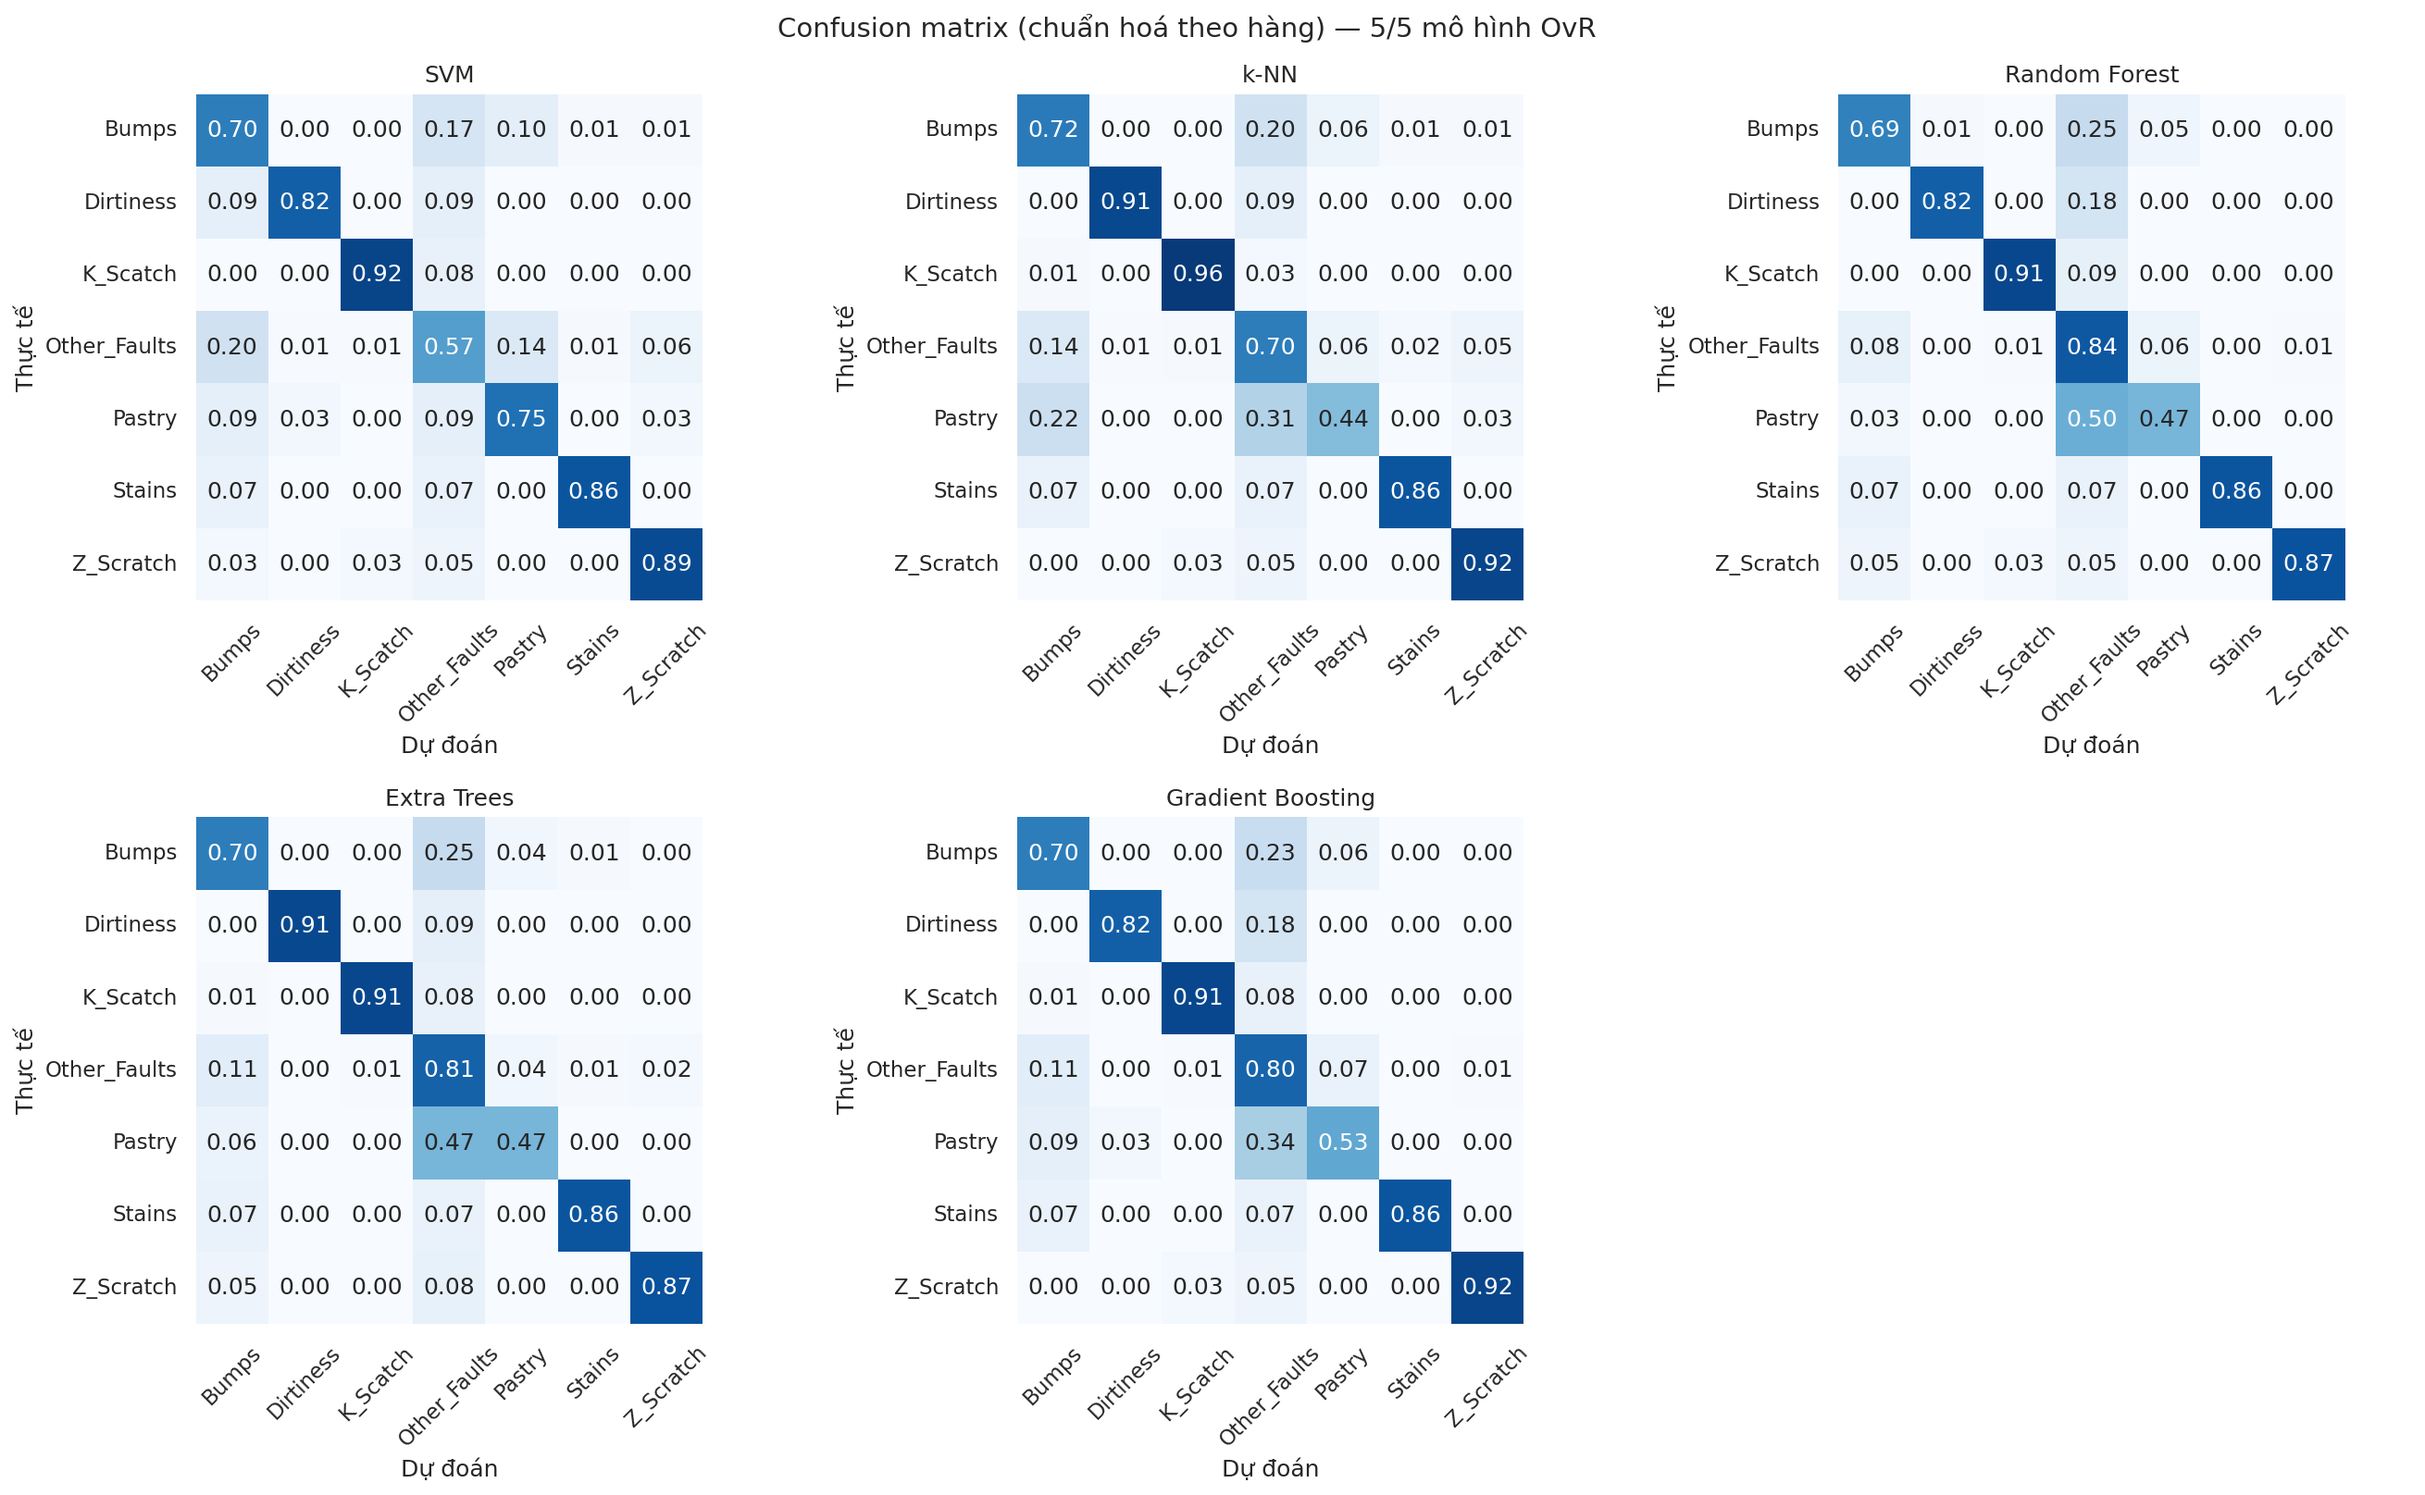
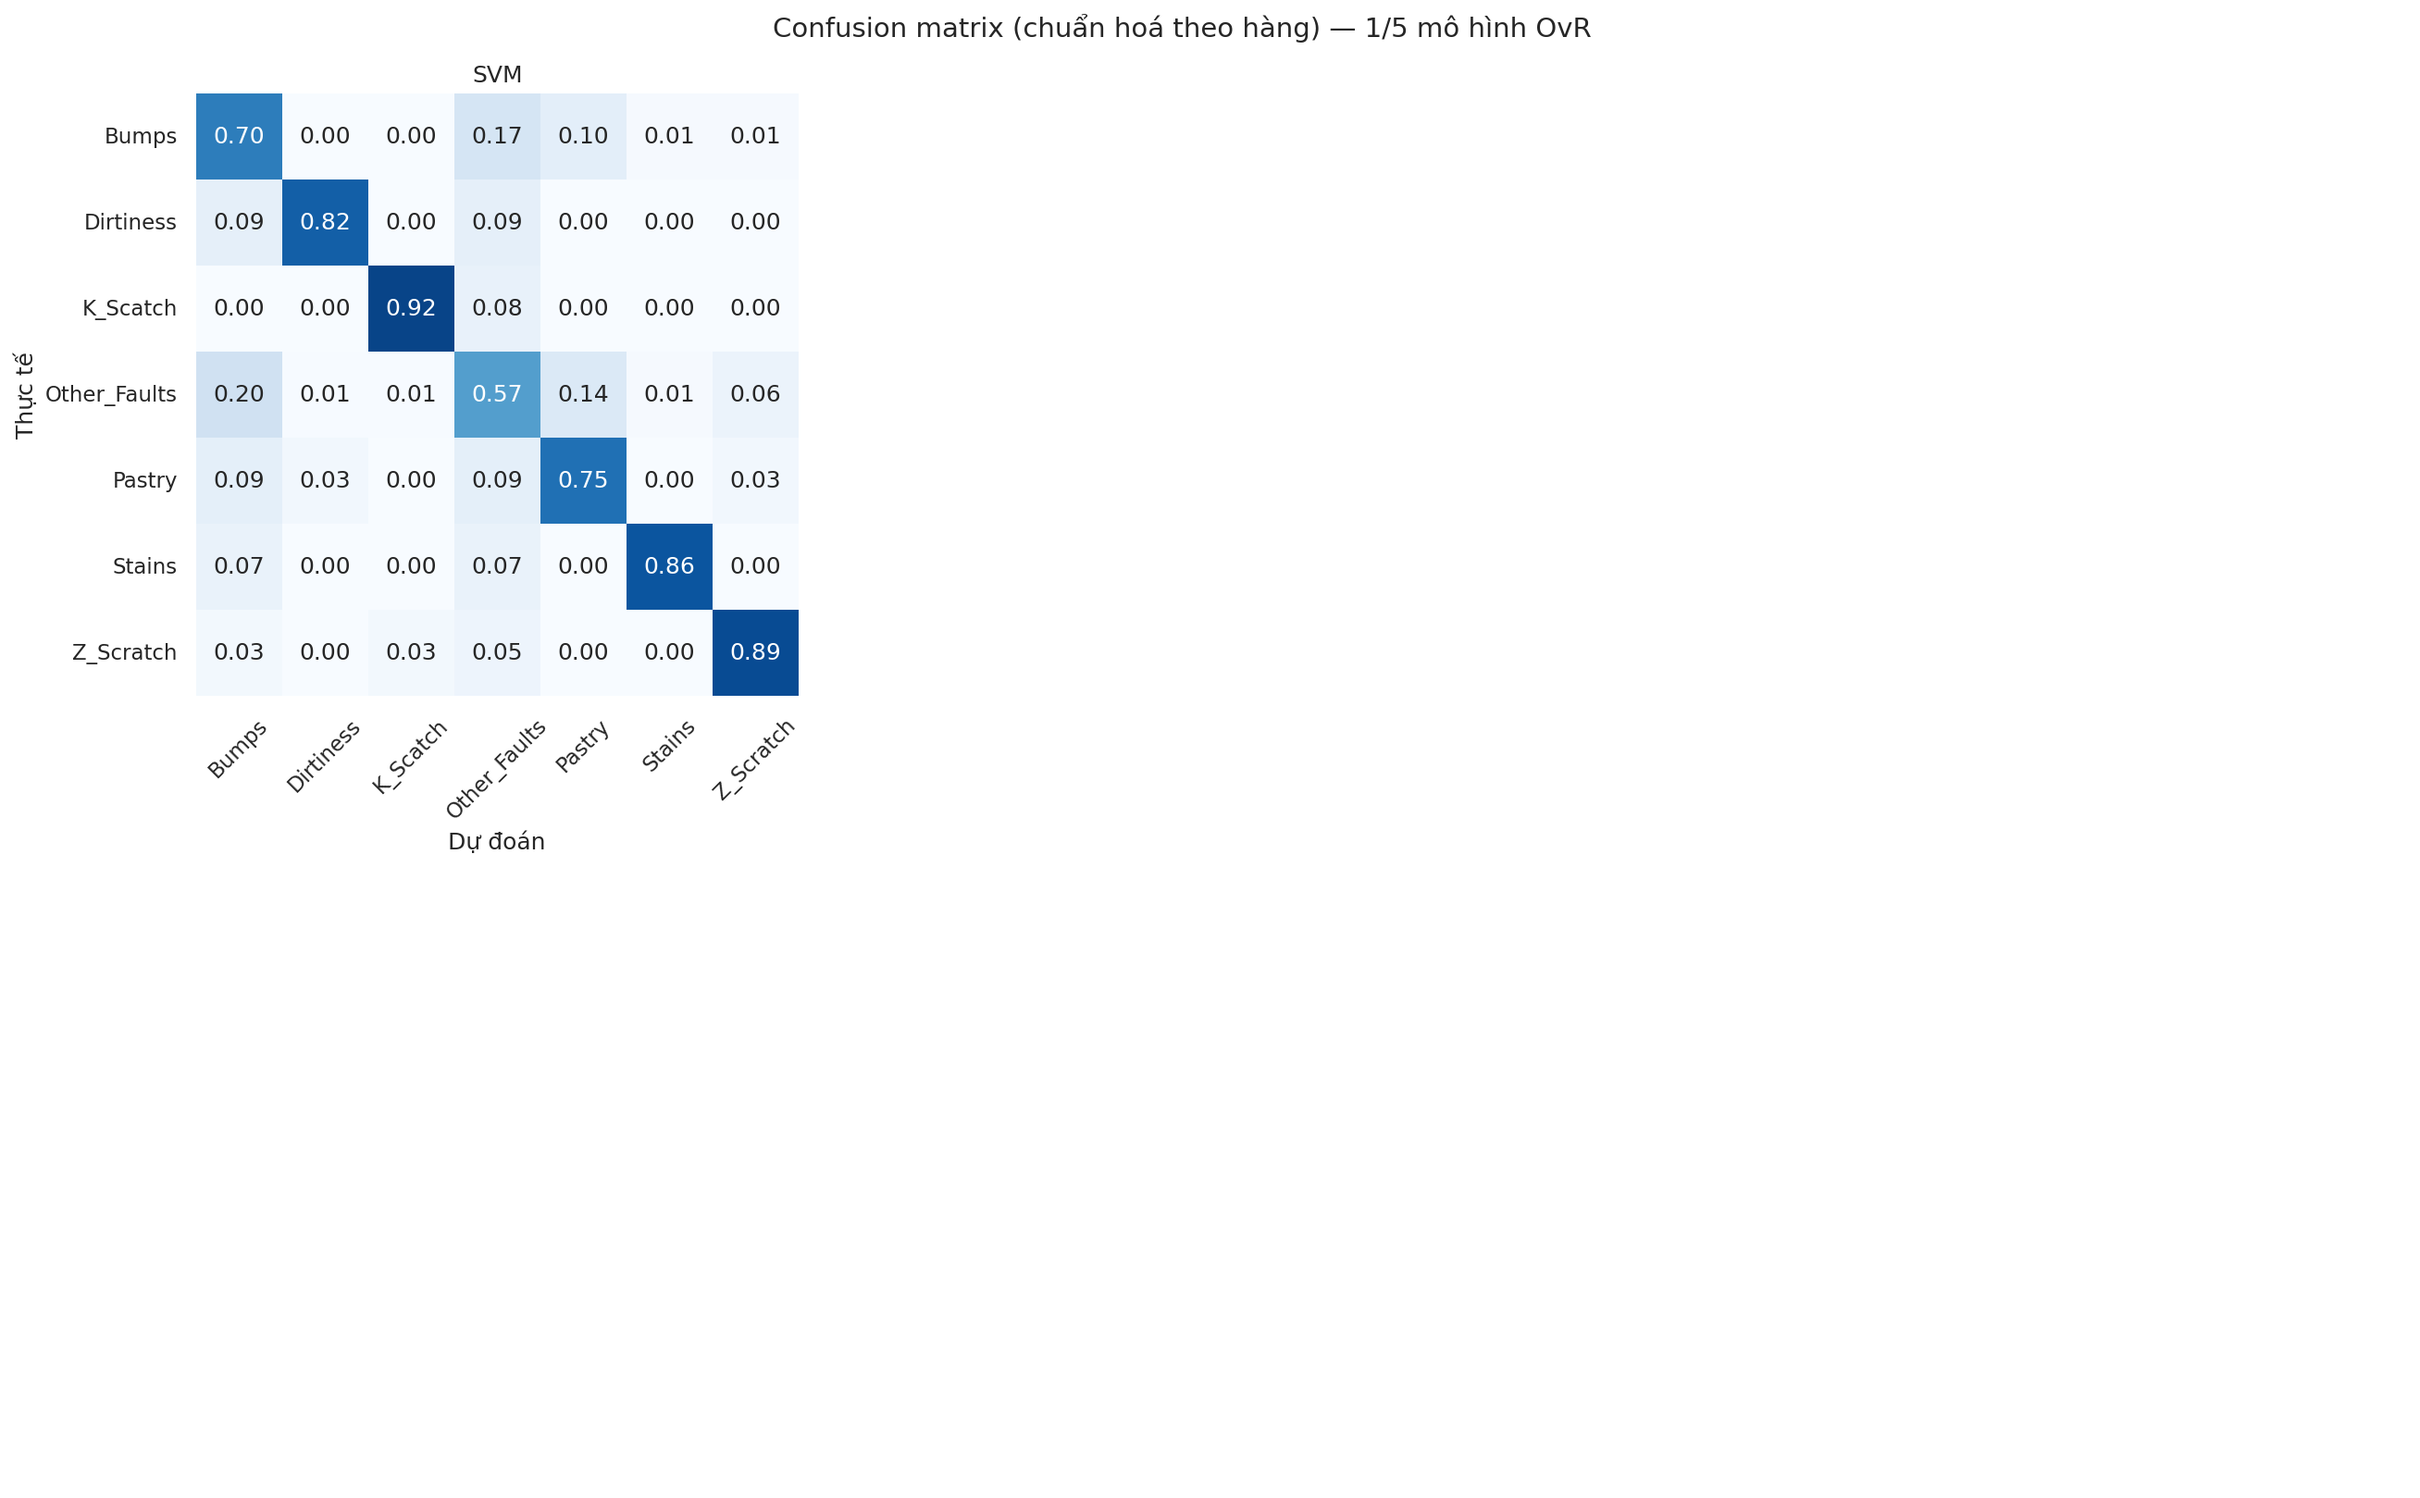
train: [1/5] SVM — acc=0.7326, macro-F1=0.7588

diff --git a/reports/results.md b/reports/results.md
@@ -1,9 +1,5 @@
 # Kết quả thực nghiệm
 
-| model             |   accuracy |   balanced_accuracy |   f1_macro |   f1_weighted |
-|:------------------|-----------:|--------------------:|-----------:|--------------:|
-| Gradient Boosting |     0.7943 |              0.7917 |     0.8114 |        0.7963 |
-| Random Forest     |     0.7969 |              0.7798 |     0.8072 |        0.7972 |
-| Extra Trees       |     0.7892 |              0.7893 |     0.8047 |        0.7887 |
-| k-NN              |     0.7686 |              0.7866 |     0.7741 |        0.766  |
-| SVM               |     0.7326 |              0.7882 |     0.7588 |        0.7339 |
+| model   |   accuracy |   balanced_accuracy |   f1_macro |   f1_weighted |
+|:--------|-----------:|--------------------:|-----------:|--------------:|
+| SVM     |     0.7326 |              0.7882 |     0.7588 |        0.7339 |
